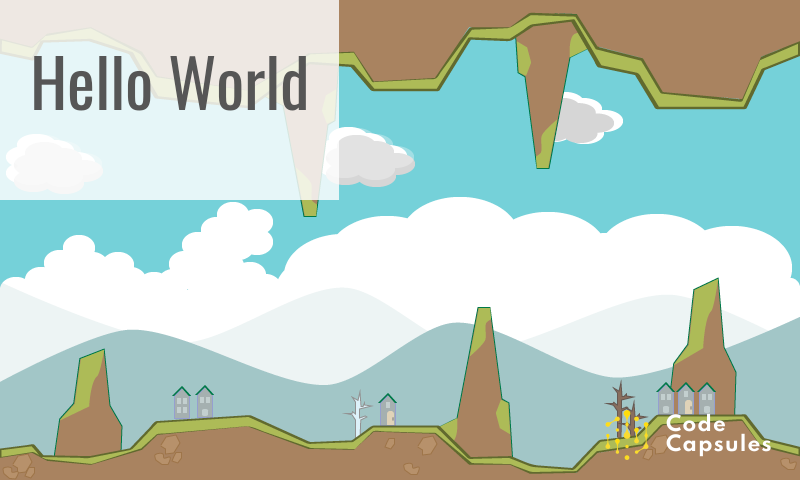
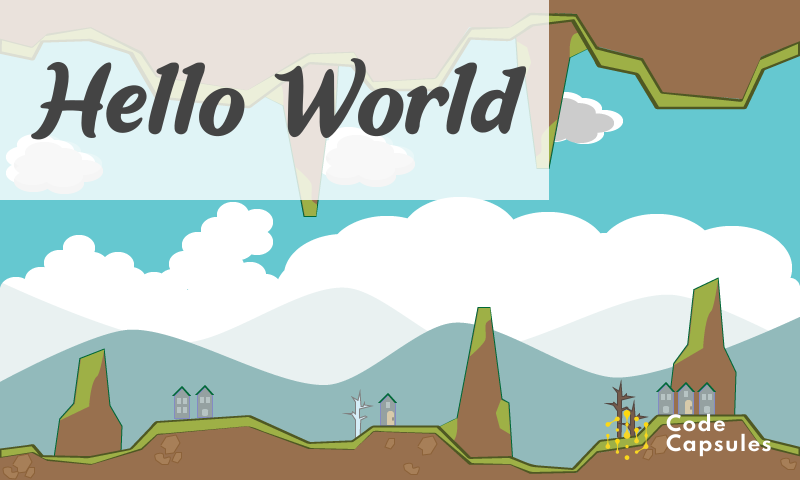
text updates

Changed region(s): [[0.0312, 0.0, 0.6875, 0.4375]]

diff --git a/docs/tutorials/image-api.md b/docs/tutorials/image-api.md
@@ -66,7 +66,7 @@ Now let's create an `index.js` file, which will be the main file for our app. An
 
 Save this blank file. 
 
-We also have a font file that we'll need to add to the project. Download and copy [this font](https://fonts.google.com/specimen/Oswald?query=m#standard-styles) to your project folder.
+We also have a font file that we'll need to add to the project. Download and copy [this font](https://github.com/codecapsules-io/image-overlay-api/blob/main/ShortBaby.ttf) to your project folder.
 
 Great, it's time to push this boilerplate project up to git. We can do it with the following from the command prompt or terminal: 
 
@@ -316,7 +316,7 @@ async function composeImage(req, res, next) {
   const width = background.width;
   const height = background.height;
 
-  registerFont("./Oswald-Regular.ttf", { family: "Oswald" });
+  registerFont("./ShortBaby.ttf", { family: "ShortBaby" });
   const canvas = createCanvas(width, height);
   const context = canvas.getContext("2d");
  
@@ -325,7 +325,7 @@ async function composeImage(req, res, next) {
   context.drawImage(logo, width - logo.width - logoPadding, height - logo.height - logoPadding);
 
   const textPadding = 30;
-  context.font = "bold 50pt Oswald";
+  context.font = "bold 70pt ShortBaby";
   context.textAlign = "left";
   context.textBaseline = "top";
 
@@ -459,7 +459,7 @@ Some things you can do to improve the API, or just to experiment with it are:
 
 The background image is from [https://opengameart.org/content/background-3](https://opengameart.org/content/background-3)
 
-The font "Oswald" is from [https://fonts.google.com/specimen/Oswald?query=m#standard-styles](https://fonts.google.com/specimen/Oswald?query=m#standard-styles)
+The font "ShortBaby" is from [https://www.fontspace.com/short-baby-font-f34907](https://www.fontspace.com/short-baby-font-f34907)
 
 The logo is from Code Capsules. 
 
